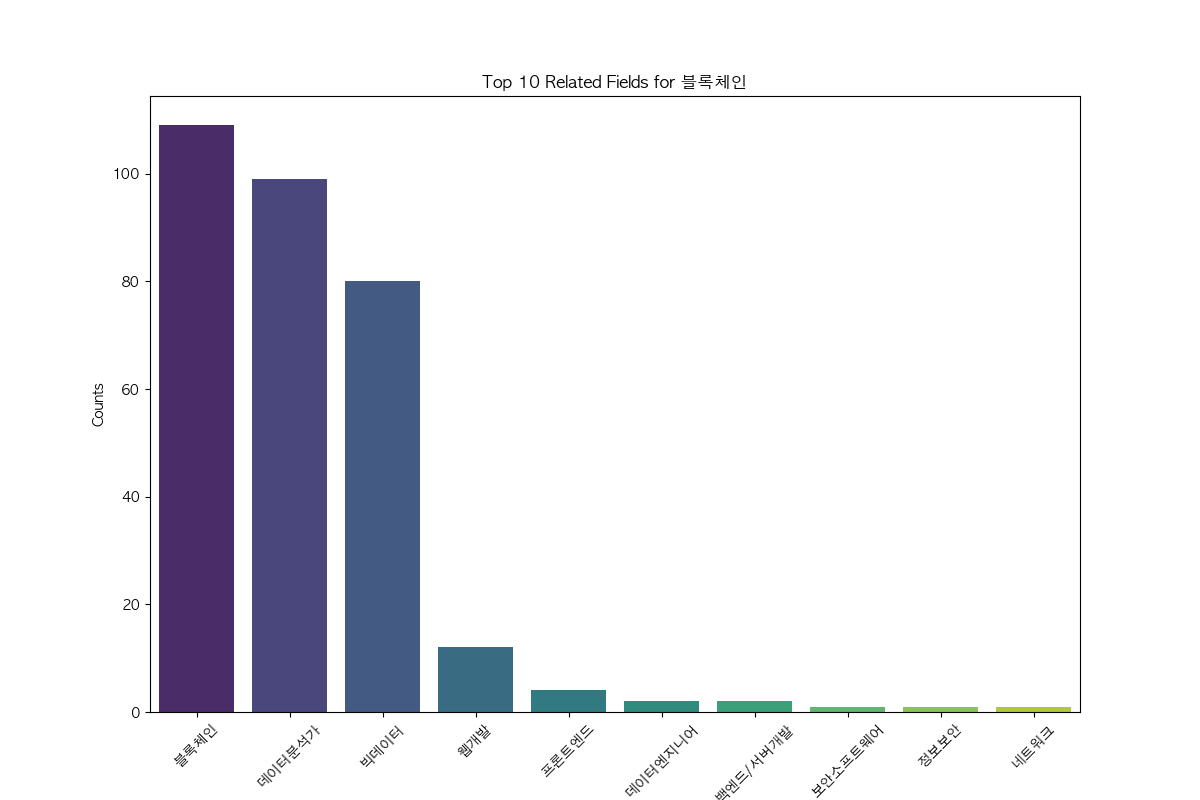
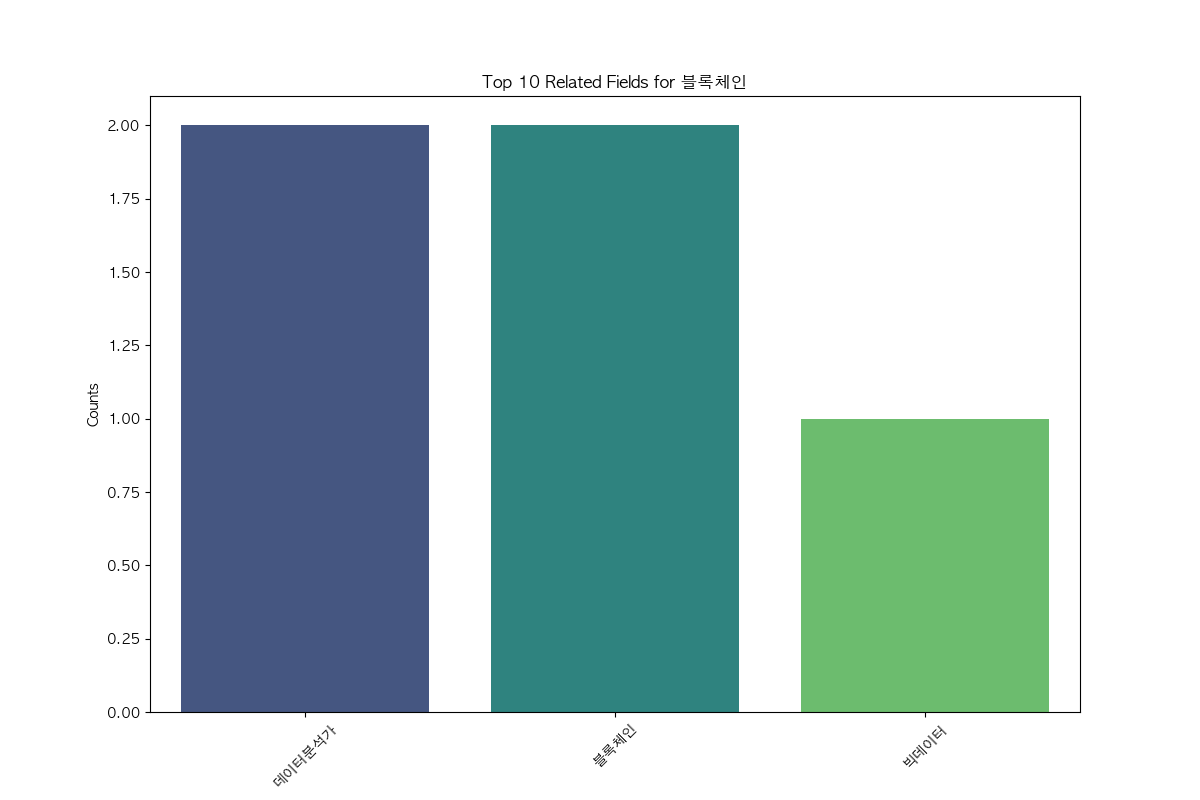
Updated 2024.04.15

diff --git a/sql_app/main.py b/sql_app/main.py
@@ -1,15 +1,31 @@
 ## uvicorn sql_app.main:app --reload
+import json
 import pandas as pd
 
 from sqlalchemy import func, text
 from sqlalchemy.orm import Session
 from fastapi import Depends, FastAPI, HTTPException
 
+from apscheduler.triggers.cron import CronTrigger
+from apscheduler.schedulers.asyncio import AsyncIOScheduler
+
 from . import crud, models, schemas
 from .database import SessionLocal, engine
+from .jobpost_router import router as jp_router
 
+from src.saramin import SaraminCrawler
+from src.jobkorea import JobKoreaCrawler
+from src.data_process import preprocessing
+
+
+WAIT_SEC = 3
+DEBUG = True
 models.Base.metadata.create_all(bind=engine)
 app = FastAPI()
+app.include_router(jp_router)
+
+scheduler = AsyncIOScheduler()
+
 
 def get_db():
     db = SessionLocal()
@@ -18,81 +34,72 @@ def get_db():
     finally:
         db.close()
 
-@app.on_event("startup")
+
 async def load_data():
-    db = next(get_db())
-    initial_count = db.query(func.count(models.JobPost.id)).scalar()
-    print(f"데이터 저장 전 DB의 총 데이터 개수: {initial_count}")
+    jobkorea_crawler = JobKoreaCrawler(WAIT_SEC, DEBUG)
+    saramin_crawler = SaraminCrawler(WAIT_SEC, DEBUG)
 
-    if initial_count == 0:
-        csv_file = '/Users/pervin0527/Get_ME_AJob/test.csv'
-        df = pd.read_csv(csv_file)
-        df.columns = ['index', 'main_field', 'num_posts', 'related_field']
-        df['related_field'] = df['related_field'].apply(lambda x: x.replace("'", '"'))
-        df.drop(columns=['index'], inplace=True)
+    jobkorea_dataset = jobkorea_crawler.crawling()
+    saramin_dataset = saramin_crawler.crawling()
 
-        try:
-            for index, row in df.iterrows():
-                job_post = schemas.JobPostCreate(
-                    main_field=row['main_field'],
-                    num_posts=row['num_posts'],
-                    related_field=row['related_field'],
-                )
-                crud.create_job_post(db=db, job_post=job_post)
-            db.commit()
-        except Exception as e:
-            db.rollback()
-            print(f"데이터 로드 중 오류 발생: {str(e)}")
-        # 데이터 저장 후의 총 데이터 개수를 출력
-        final_count = db.query(func.count(models.JobPost.id)).scalar()
-        print(f"데이터 저장 후 DB의 총 데이터 개수: {final_count}")
+    total_df = preprocessing(jobkorea_dataset, saramin_dataset)
+    total_df.columns = ['main_field', 'num_posts', 'related_field']
+
+    # total_df['related_field'] = total_df['related_field'].apply(lambda x: json.dumps(x))
+    total_df['related_field'] = total_df['related_field'].apply(lambda x: json.dumps(x) if isinstance(x, list) else x)
+
+    db = SessionLocal()
+
+    existing_data = pd.read_sql(sql="SELECT main_field, num_posts, related_field FROM job_posts", con=db.bind)
+    existing_data['related_field'] = existing_data['related_field'].apply(lambda x: json.dumps(x) if isinstance(x, list) else x)
+
+
+    if existing_data.empty:
+        for index, row in total_df.iterrows():
+            job_post = schemas.JobPostCreate(
+                main_field=row['main_field'],
+                num_posts=row['num_posts'],
+                related_field=row['related_field']
+            )
+            db.add(models.JobPost(**job_post.dict()))
     else:
-        print("DB에 이미 데이터가 존재합니다. 새로운 데이터 로드를 생략합니다.")
+        merged_data = pd.merge(total_df, existing_data, on=["main_field", "related_field"], suffixes=('_new', '_existing'), how='outer', indicator=True)
+        update_data = merged_data[(merged_data['_merge'] == 'both') & (merged_data['num_posts_new'] != merged_data['num_posts_existing'])]
+        for index, row in update_data.iterrows():
+            db.query(models.JobPost).filter(models.JobPost.main_field == row['main_field'], models.JobPost.related_field == row['related_field']).update({'num_posts': row['num_posts_new']})
 
+        new_data = merged_data[merged_data['_merge'] == 'left_only']
+        for index, row in new_data.iterrows():
+            job_post = schemas.JobPostCreate(
+                main_field=row['main_field'],
+                num_posts=row['num_posts_new'],
+                related_field=row['related_field']
+            )
+            db.add(models.JobPost(**job_post.dict()))
+
+    db.commit()
     db.close()
 
 
-@app.post("/jobposts/", response_model=schemas.JobPostRead)
-def create_job_post(job_post: schemas.JobPostCreate, db: Session = Depends(get_db)):
-    return crud.create_job_post(db=db, job_post=job_post)
+@app.on_event("startup")
+async def startup_event():
+    await load_data()
+    
+    scheduler.add_job(
+        func=load_data,
+        trigger=CronTrigger(minute='*/3'),
+        # trigger=CronTrigger(hour='*/10'),
+        timezone="Asia/Seoul"
+    )
+    scheduler.start()
+    scheduler.print_jobs()
 
 
-@app.get("/jobposts/{job_post_id}", response_model=schemas.JobPostRead)
-def read_job_post(job_post_id: int, db: Session = Depends(get_db)):
-    db_job_post = crud.get_job_post(db, job_post_id=job_post_id)
-    if db_job_post is None:
-        raise HTTPException(status_code=404, detail="JobPost not found")
-    return db_job_post
-
-
-@app.get("/jobposts/", response_model=list[schemas.JobPostRead])
-def read_job_posts(skip: int = 0, limit: int = 100, db: Session = Depends(get_db)):
-    job_posts = crud.get_job_posts(db, skip=skip, limit=limit)
-    return job_posts
-
-
-@app.put("/jobposts/{job_post_id}", response_model=schemas.JobPostRead)
-def update_job_post(job_post_id: int, job_post: schemas.JobPostUpdate, db: Session = Depends(get_db)):
-    return crud.update_job_post(db=db, job_post_id=job_post_id, updates=job_post)
-
-
-@app.delete("/jobposts/{job_post_id}", response_model=dict)
-def delete_job_post(job_post_id: int, db: Session = Depends(get_db)):
-    if crud.delete_job_post(db=db, job_post_id=job_post_id):
-        return {"detail": "JobPost deleted"}
-    raise HTTPException(status_code=404, detail="JobPost not found")
-
-
-@app.delete("/clear-data")
-def clear_data(db: Session = Depends(get_db)):
-    try:
-        db.query(models.JobPost).delete()
-
-        sequence_name = "job_posts_id_seq"
-        db.execute(text(f"ALTER SEQUENCE {sequence_name} RESTART WITH 1"))
-
-        db.commit()
-        return {"message": "모든 데이터가 성공적으로 제거되었습니다."}
-    except Exception as e:
-        db.rollback()
-        return {"error": str(e)}
+# @app.on_event("shutdown")
+# async def shutdown_event():
+#     db = next(get_db())
+#     db.query(models.JobPost).delete()
+#     sequence_name = "job_posts_id_seq"
+#     db.execute(text(f"ALTER SEQUENCE {sequence_name} RESTART WITH 1"))
+#     db.commit()
+#     db.close()

diff --git a/sql_app/jobpost_router.py b/sql_app/jobpost_router.py
@@ -1,0 +1,59 @@
+from sqlalchemy import func, text
+from sqlalchemy.orm import Session
+from fastapi import APIRouter, Depends, HTTPException
+from . import crud, models, schemas, database
+
+router = APIRouter(prefix='/jobposts', tags=['jobposts'])
+
+def get_db():
+    db = database.SessionLocal()
+    try:
+        yield db
+    finally:
+        db.close()
+
+
+@router.post("/", response_model=schemas.JobPostRead)
+def create_job_post(job_post: schemas.JobPostCreate, db: Session = Depends(get_db)):
+    return crud.create_job_post(db=db, job_post=job_post)
+
+
+@router.get("/{job_post_id}", response_model=schemas.JobPostRead)
+def read_job_post(job_post_id: int, db: Session = Depends(get_db)):
+    db_job_post = crud.get_job_post(db, job_post_id=job_post_id)
+    if db_job_post is None:
+        raise HTTPException(status_code=404, detail="JobPost not found")
+    return db_job_post
+
+
+@router.get("/", response_model=list[schemas.JobPostRead])
+def read_job_posts(skip: int = 0, limit: int = 100, db: Session = Depends(get_db)):
+    job_posts = crud.get_job_posts(db, skip=skip, limit=limit)
+    return job_posts
+
+
+@router.put("/{job_post_id}", response_model=schemas.JobPostRead)
+def update_job_post(job_post_id: int, job_post: schemas.JobPostUpdate, db: Session = Depends(get_db)):
+    return crud.update_job_post(db=db, job_post_id=job_post_id, updates=job_post)
+
+
+@router.delete("/clear-data")
+def clear_data(db: Session = Depends(get_db)):
+    try:
+        db.query(models.JobPost).delete()
+
+        sequence_name = "job_posts_id_seq"
+        db.execute(text(f"ALTER SEQUENCE {sequence_name} RESTART WITH 1"))
+
+        db.commit()
+        return {"message": "모든 데이터가 성공적으로 제거되었습니다."}
+    except Exception as e:
+        db.rollback()
+        return {"error": str(e)}
+
+
+@router.delete("/{job_post_id}", response_model=dict)
+def delete_job_post(job_post_id: int, db: Session = Depends(get_db)):
+    if crud.delete_job_post(db=db, job_post_id=job_post_id):
+        return {"detail": "JobPost deleted"}
+    raise HTTPException(status_code=404, detail="JobPost not found")

diff --git a/src/jobkorea.py b/src/jobkorea.py
@@ -1,5 +1,6 @@
 import os
 import time
+import pandas as pd
 
 from tqdm import tqdm
 from selenium import webdriver
@@ -69,7 +70,7 @@ class JobKoreaCrawler:
         idx = 1
         total_data = []
         while True:
-            if self.debug and idx == 5:
+            if self.debug and idx == 2:
                     break
 
             if idx > 1:
@@ -89,4 +90,6 @@ class JobKoreaCrawler:
             idx += 1
 
         browser.close()
-        return total_data
+
+        df = pd.DataFrame(total_data)
+        return df

diff --git a/src/saramin.py b/src/saramin.py
@@ -1,4 +1,5 @@
 import time
+import pandas as pd
 
 from tqdm import tqdm
 from selenium import webdriver
@@ -77,7 +78,7 @@ class SaraminCrawler:
         idx = 1
         total_data = []
         while True:
-            if self.debug and idx == 5:
+            if self.debug and idx == 2:
                     break
 
             if idx > 1:
@@ -97,4 +98,5 @@ class SaraminCrawler:
             idx += 1
 
         browser.close()
-        return total_data
+        df = pd.DataFrame(total_data)
+        return df

diff --git a/src/util.py b/src/util.py
@@ -14,6 +14,7 @@ def draw_main_graph(field_counts):
     plt.ylabel('주요분야')
     # plt.show()
     plt.savefig('outputs/Main.png')
+    plt.close()
 
 
 def draw_sub_graph(fields, counts, keyword):
@@ -24,3 +25,4 @@ def draw_sub_graph(fields, counts, keyword):
     plt.xticks(rotation=45)
     # plt.show()
     plt.savefig(f'outputs/Relation_{keyword}.png')
+    plt.close()

diff --git a/src/data_process.py b/src/data_process.py
@@ -118,3 +118,5 @@ def preprocessing(*args):
 
     result = pd.DataFrame({'주요분야': main_field_list, '공고수': main_field_counts, '연관분야': related_field_list})
     result.to_csv('test.csv')
+
+    return result
